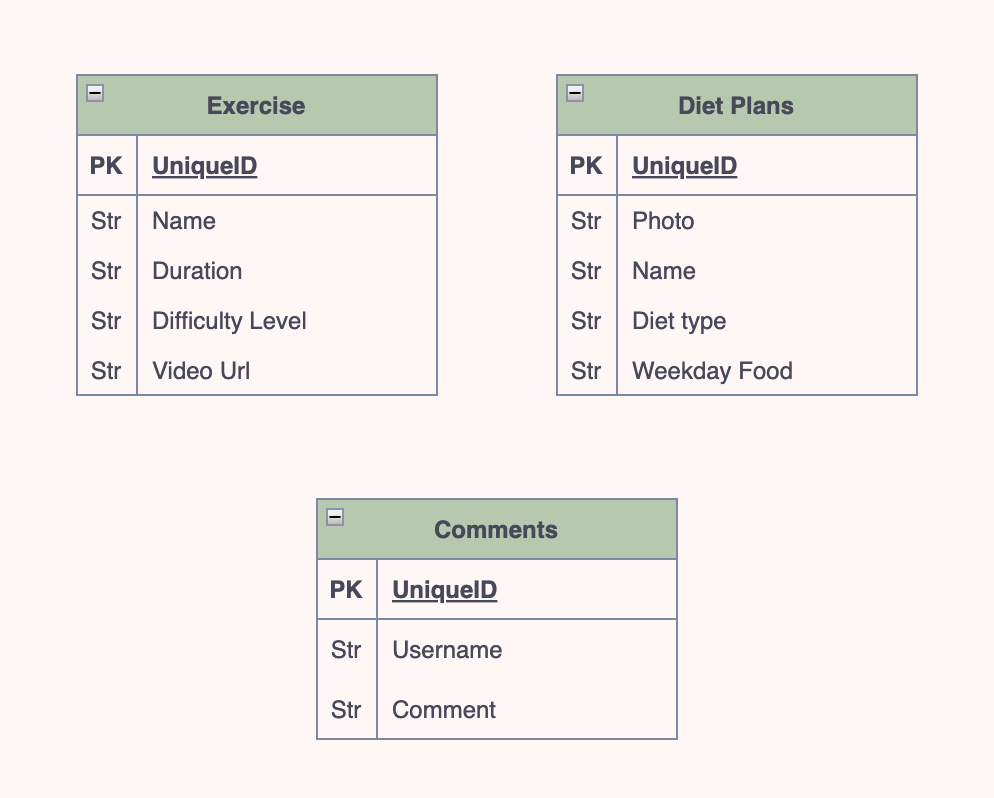
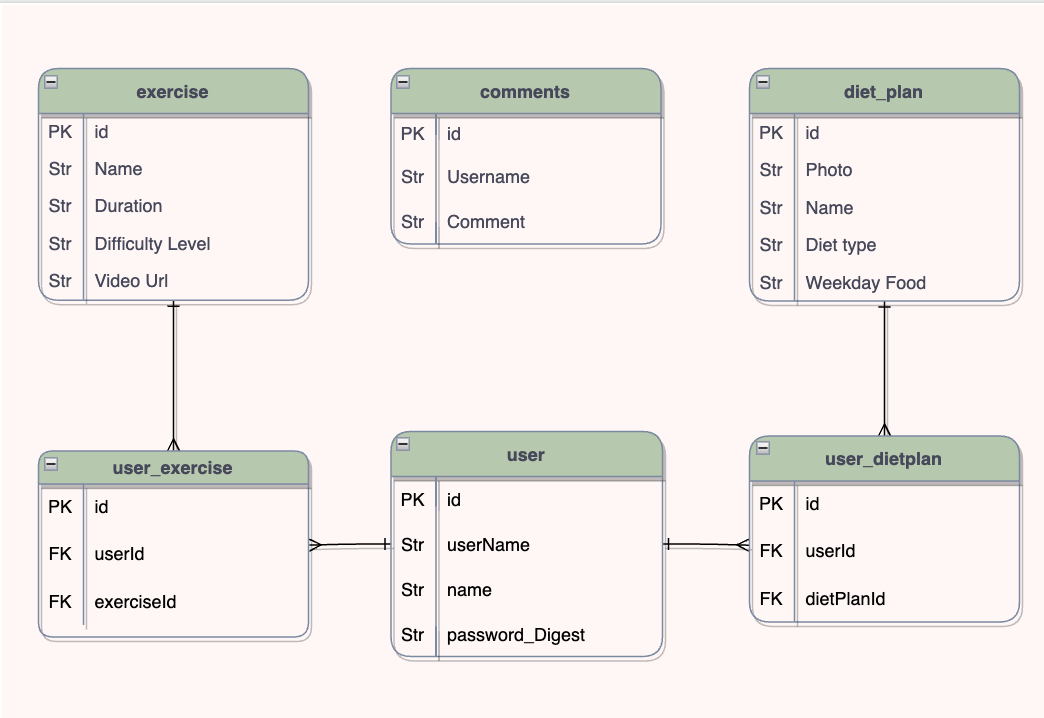
created joint tables

Changed region(s): [[0.0312, 0.0919, 0.998, 0.9499], [0.9044, 0.2145, 0.9356, 0.2451]]

diff --git a/models/userdietplan.js b/models/userdietplan.js
@@ -1,0 +1,40 @@
+'use strict'
+const { Model } = require('sequelize')
+module.exports = (sequelize, DataTypes) => {
+  class UserdietPlan extends Model {
+    /**
+     * Helper method for defining associations.
+     * This method is not a part of Sequelize lifecycle.
+     * The `models/index` file will call this method automatically.
+     */
+    static associate(models) {
+      // define association here
+    }
+  }
+  UserdietPlan.init(
+    {
+      userId: {
+        type: DataTypes.INTEGER,
+        onDelete: 'CASCADE',
+        references: {
+          model: 'users',
+          key: 'id'
+        }
+      },
+      dietPlanId: {
+        type: DataTypes.INTEGER,
+        onDelete: 'CASCADE',
+        references: {
+          model: 'dietplan',
+          key: 'id'
+        }
+      }
+    },
+    {
+      sequelize,
+      modelName: 'UserdietPlan',
+      tableName: 'userdietPlans'
+    }
+  )
+  return UserdietPlan
+}

diff --git a/migrations/20221209145017-create-userexercise.js b/migrations/20221209145017-create-userexercise.js
@@ -1,0 +1,31 @@
+'use strict'
+/** @type {import('sequelize-cli').Migration} */
+module.exports = {
+  async up(queryInterface, Sequelize) {
+    await queryInterface.createTable('userexercises', {
+      id: {
+        allowNull: false,
+        autoIncrement: true,
+        primaryKey: true,
+        type: Sequelize.INTEGER
+      },
+      userId: {
+        type: Sequelize.INTEGER
+      },
+      exerciseId: {
+        type: Sequelize.INTEGER
+      },
+      createdAt: {
+        allowNull: false,
+        type: Sequelize.DATE
+      },
+      updatedAt: {
+        allowNull: false,
+        type: Sequelize.DATE
+      }
+    })
+  },
+  async down(queryInterface, Sequelize) {
+    await queryInterface.dropTable('userexercises')
+  }
+}

diff --git a/migrations/20221209145131-create-userdiet-plan.js b/migrations/20221209145131-create-userdiet-plan.js
@@ -1,0 +1,31 @@
+'use strict'
+/** @type {import('sequelize-cli').Migration} */
+module.exports = {
+  async up(queryInterface, Sequelize) {
+    await queryInterface.createTable('userdietPlans', {
+      id: {
+        allowNull: false,
+        autoIncrement: true,
+        primaryKey: true,
+        type: Sequelize.INTEGER
+      },
+      userId: {
+        type: Sequelize.INTEGER
+      },
+      dietPlanId: {
+        type: Sequelize.INTEGER
+      },
+      createdAt: {
+        allowNull: false,
+        type: Sequelize.DATE
+      },
+      updatedAt: {
+        allowNull: false,
+        type: Sequelize.DATE
+      }
+    })
+  },
+  async down(queryInterface, Sequelize) {
+    await queryInterface.dropTable('userdietPlans')
+  }
+}

diff --git a/models/userexercise.js b/models/userexercise.js
@@ -1,0 +1,26 @@
+'use strict'
+const { Model } = require('sequelize')
+module.exports = (sequelize, DataTypes) => {
+  class Userexercise extends Model {
+    /**
+     * Helper method for defining associations.
+     * This method is not a part of Sequelize lifecycle.
+     * The `models/index` file will call this method automatically.
+     */
+    static associate(models) {
+      // define association here
+    }
+  }
+  Userexercise.init(
+    {
+      userId: DataTypes.INTEGER,
+      exerciseId: DataTypes.INTEGER
+    },
+    {
+      sequelize,
+      modelName: 'Userexercise',
+      tableName: 'userexercises'
+    }
+  )
+  return Userexercise
+}
